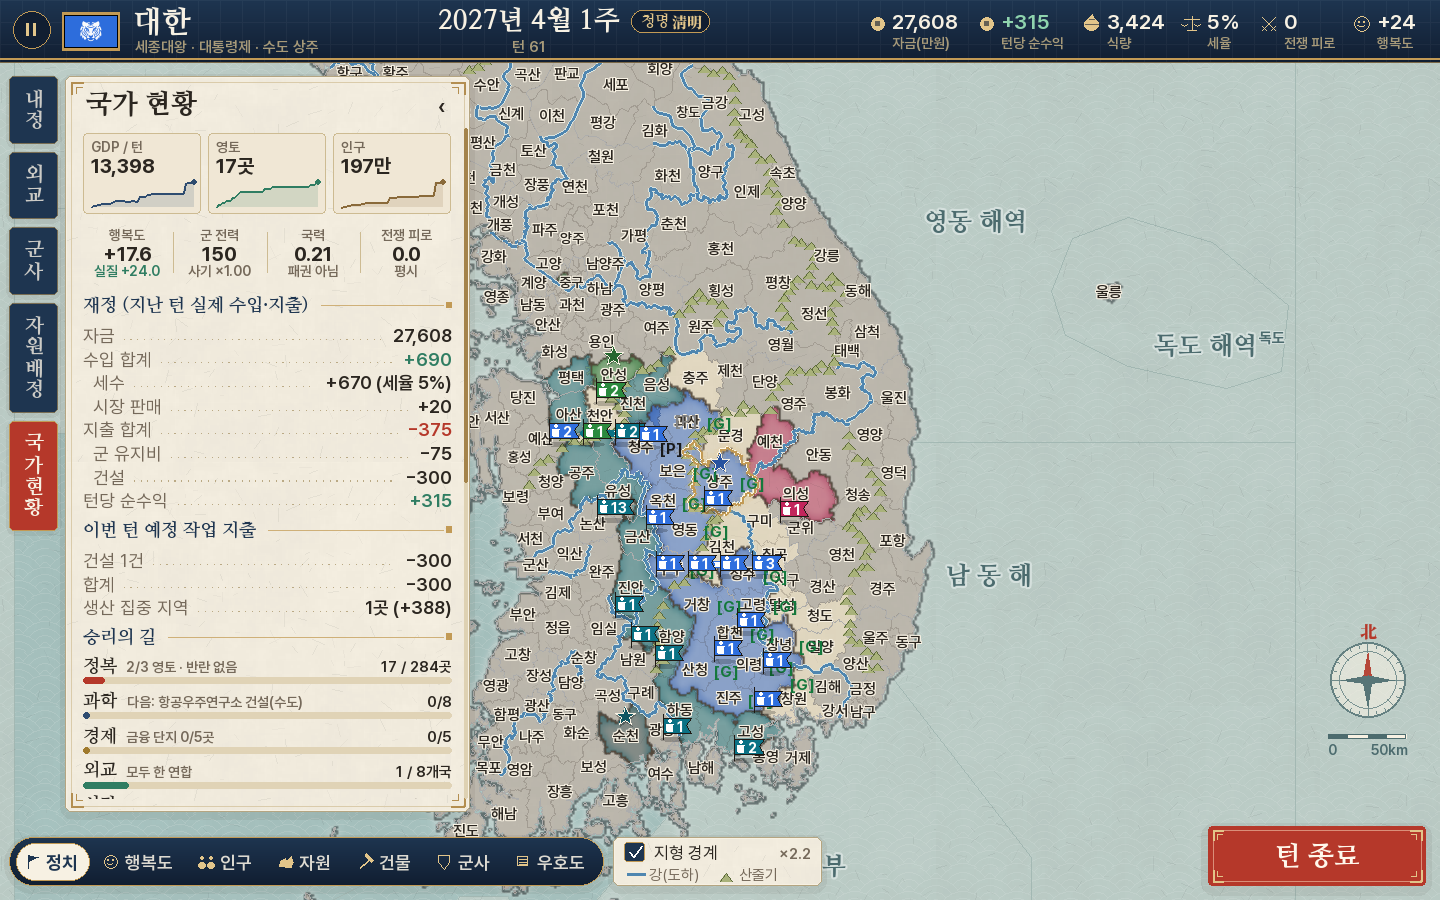
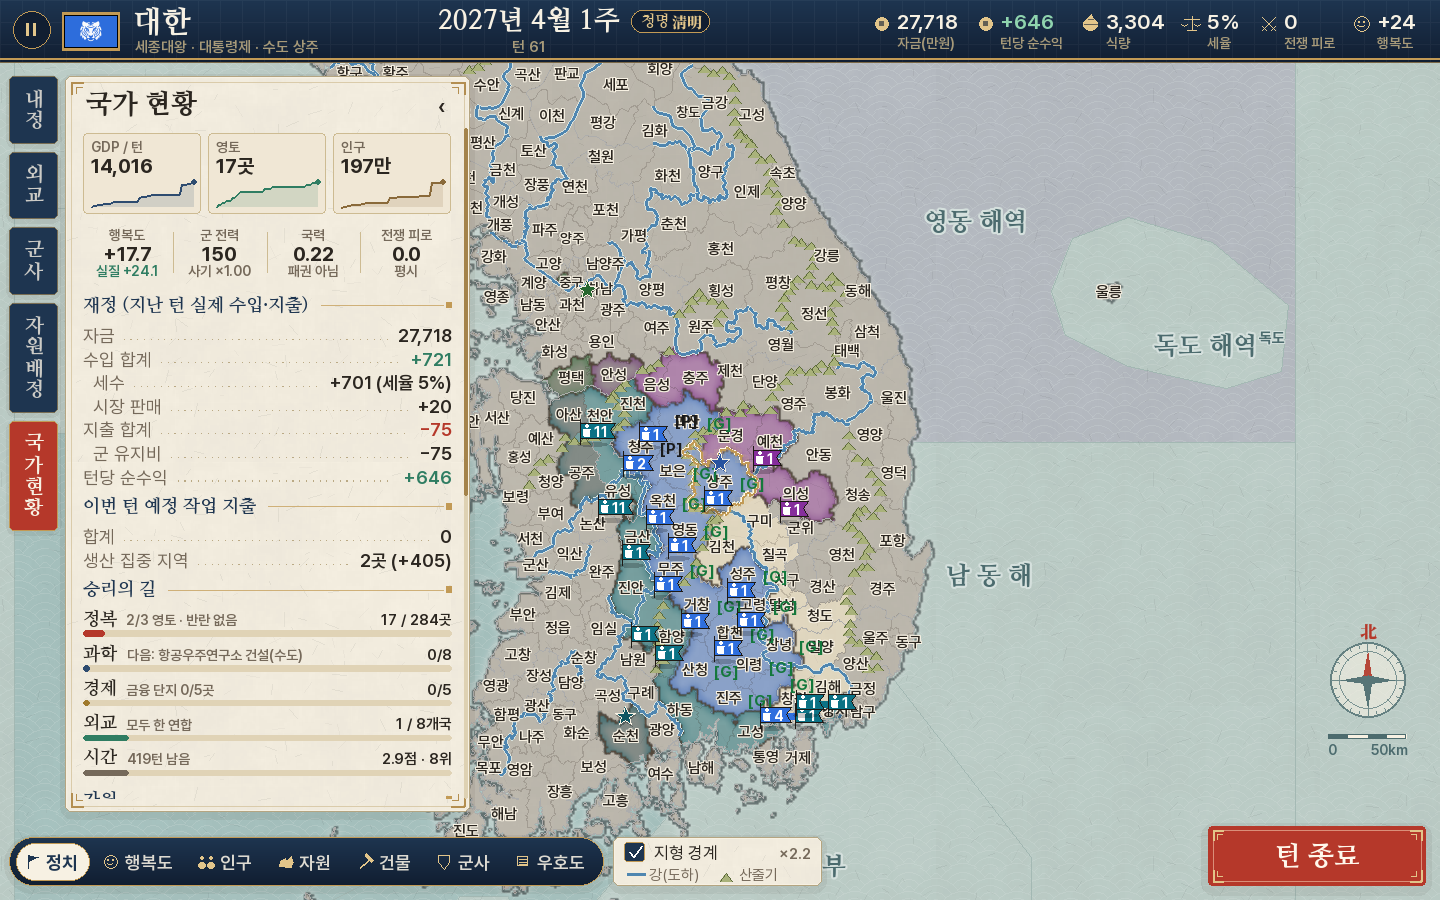
v1.48.2: 주간 조보 삭제, 시작 설정 지도자 초상 칸 3:4
- 인게임 오른쪽 위 주간 조보 카드 삭제
- 시작 설정의 지도자 카드 초상화 칸을 세로 3:4로 늘려 그림이 잘리지 않게 함
  (아래 고른 지도자 족자 초상도 84×112), '직접 입력' 카드는 + 표시만

Claude-Session: https://claude.ai/code/session_015ABDTwjgoEX5AtwCBodvFR

diff --git a/korciv/ui/app.py b/korciv/ui/app.py
@@ -393,7 +393,6 @@ class App:
         self.draw_compass()
         self.draw_mode_chips()
         self.draw_end_turn()
-        self.draw_gazette()
         self.draw_toasts()
         if self.ctx_menu:
             self.draw_ctx_menu()
@@ -1440,69 +1439,6 @@ class App:
             gui.text(c, str(len(queue)), 12, t.indigo_dk, "bold", anchor="center")
         elif gui.button(r, "턴 종료", "seal", size=19, weight="title", enabled=not g.game_over):
             self.end_turn()
-
-    GAZETTE_ICONS = {"battle": "swords", "war": "swords", "bomb": "swords", "captured": "flag", "peace": "scroll",
-                     "diplo": "scroll", "complete": "hammer", "rebel": "face", "famine": "rice", "eliminated": "flag"}
-    GAZETTE_PRIORITY = ("war", "eliminated", "captured", "battle", "rebel", "peace", "famine", "diplo", "bomb")
-
-    def draw_gazette(self):
-        """주간 조보: 지난 턴에 일어난 일을 오른쪽 위 쪽지로(닫으면 다음 턴까지 숨김)."""
-        from .art import ui_icon
-        g = self.game
-        if not g or self.active_modal() or getattr(self, "gazette_closed", None) == g.turn:
-            return
-        pid = g.player_id
-        evs = []
-        for e in getattr(g, "events", []) or []:
-            if not (pid in e["fids"] or e["kind"] in ("war", "peace", "eliminated", "ranking", "victory", "diplo", "alert")):
-                continue
-            txt = g.event_for_player(e)
-            if txt:
-                evs.append((e["kind"], txt))
-        if not evs:
-            return
-        gui = self.gui
-        t = self.theme
-        u = ui_scale()
-        sw, _ = self.lsize()
-        pri = {k: i for i, k in enumerate(self.GAZETTE_PRIORITY)}
-        head = min(range(len(evs)), key=lambda i: (pri.get(evs[i][0], 99), i))
-        rest = [ev for i, ev in enumerate(evs) if i != head]
-        w = 312
-        x = sw - w - 12
-        lines_h = 22 * min(4, len(rest))
-        r = pygame.Rect(x, TOP_H + 10, w, 106 + lines_h + (18 if len(rest) > 4 else 0))
-        gui.panel(r, radius=3)
-        from ..rules import date_of_turn
-        hr = gui.text((r.x + 14, r.y + 8), "朝報", 24, t.text, "title")
-        gui.text((hr.right + 10, r.y + 11), "주간 조보", 14, t.text, "serif")
-        y_, m_, w_ = date_of_turn(max(1, g.turn - 1))
-        gui.text((hr.right + 10, r.y + 29), f"{y_}년 {m_}월 {w_}주 소식", 10, t.muted, "semibold")
-        close = pygame.Rect(r.right - 30, r.y + 8, 22, 22)
-        if gui.button(close, "×", "ghost", size=15):
-            self.gazette_closed = g.turn
-            return
-        gui.line(t.text, (r.x + 12, r.y + 50), (r.right - 12, r.y + 50), 2)
-        gui.line(t.text, (r.x + 12, r.y + 54), (r.right - 12, r.y + 54), 1)
-        kind, txt = evs[head]
-        col = t.vermilion if kind in ("war", "battle", "rebel", "eliminated") else t.text
-        gui.text((r.x + 14, r.y + 62), txt, 14, col, "title", max_w=w - 28)
-        y = r.y + 88
-        gui.line(t.border, (r.x + 12, y - 4), (r.right - 12, y - 4))
-        for kind, txt in rest[:4]:
-            icol = t.vermilion if kind in ("battle", "war", "bomb") else (t.jade if kind in ("captured", "peace") else t.muted)
-            ui_icon(self.screen, self.GAZETTE_ICONS.get(kind, "box"), gui.P(r.x + 22, y + 9), icol, 0.7 * u)
-            gui.text((r.x + 36, y + 1), txt, 12, t.text, max_w=w - 50)
-            y += 22
-        if len(rest) > 4:
-            gui.text((r.x + 36, y), f"외 {len(rest) - 4}건", 11, t.muted, "semibold")
-        link = pygame.Rect(r.right - 150, r.bottom - 22, 140, 18)
-        hov = gui.hover(link)
-        gui.text((link.right, link.centery), "이벤트 로그 전체 보기 ›", 11, t.accent if not hov else t.vermilion, "semibold",
-                 anchor="midright")
-        if hov and gui.clicked:
-            gui.clicked = False
-            self.modal = ("log", None)
 
     def draw_compass(self):
         """지도 오른쪽 아래 나침반(윤도)과 축척."""

diff --git a/korciv/ui/modals.py b/korciv/ui/modals.py
@@ -417,7 +417,9 @@ def draw_setup(app):
     shown = [LEADER_BY_KEY[k] for k in LEADER_CATEGORIES[s.leader_cat][2]] + [LEADER_BY_KEY["cus"]]
     cols, gap = 7, 6
     cw = (w - (cols - 1) * gap) / cols
-    ch = 102
+    pw = int(cw) - 8
+    ph = pw * 4 // 3                          # 초상화 칸은 세로 3:4(그림이 잘리지 않게)
+    ch = ph + 26
     for i, l in enumerate(shown):
         cx = x + (i % cols) * (cw + gap)
         cy = y + (i // cols) * (ch + gap)
@@ -426,7 +428,7 @@ def draw_setup(app):
         hov = gui.hover(cr)
         gui.shadow(cr, 3, 3, 90 if sel else 40)
         gui.rect(t.panel, cr, radius=3)
-        pr_ = pygame.Rect(cr.x + 4, cr.y + 4, cr.w - 8, 70)
+        pr_ = pygame.Rect(cr.x + 4, cr.y + 4, pw, ph)
         if portrait_path(l["key"]) and l["key"] != "cus":
             draw_portrait(gui, pr_, l["key"], t)
             if not sel and not hov:                 # 고르지 않은 카드는 살짝 바랜 느낌
@@ -436,10 +438,11 @@ def draw_setup(app):
         else:
             gui.rect(mix(t.panel_alt, t.indigo, 0.1), pr_)
             col = mix(t.panel_alt, t.indigo, 0.35)
-            gui.circle(col, (pr_.centerx, pr_.y + 25), 12)
-            gui.rect(col, (pr_.centerx - 20, pr_.y + 42, 40, 28), radius=12)
             if l["key"] == "cus":
-                gui.text((pr_.centerx, pr_.centery - 4), "+", 24, (255, 255, 255), "bold", anchor="center")
+                gui.text(pr_.center, "+", 30, col, "bold", anchor="center")
+            else:
+                gui.circle(col, (pr_.centerx, pr_.y + ph * 0.36), pw * 0.17)
+                gui.rect(col, (pr_.centerx - pw * 0.28, pr_.y + ph * 0.58, pw * 0.56, ph * 0.42), radius=12)
         nm = "직접 입력" if l["key"] == "cus" else l["name"]
         gui.text((cr.centerx, cr.bottom - 14), nm, 11 if len(nm) <= 5 else 10, t.text if sel else mix(t.text, t.panel, 0.2),
                  "serif", anchor="center", max_w=cr.w - 4)
@@ -455,7 +458,7 @@ def draw_setup(app):
     y += 2 * (ch + gap) + 6
     # 고른 지도자: 족자 초상 + 이름 + 버프·디버프 패
     lead = LEADER_BY_KEY[s.leader]
-    fr2 = pygame.Rect(x + 8, y + 10, 100, 132)
+    fr2 = pygame.Rect(x + 8, y + 10, 96, 136)    # 안쪽 초상화 84×112(3:4)
     gui.shadow(fr2, 2, 6, 90)
     gui.rect((60, 78, 94), fr2)
     inner = fr2.inflate(-12, -24)

diff --git a/korciv/version.py b/korciv/version.py
@@ -6,7 +6,7 @@
 - 주(첫 번째): 게임을 크게 바꾸는 중대한 업데이트 → 부·수 0으로.
 세이브 파일에는 항상 버전을 적고, 주·부가 같은 세이브만 [이어하기]에 보인다.
 """
-VERSION = "1.48.1"
+VERSION = "1.48.2"
 RELEASE_DATE = "2026-10-10"
 
 

diff --git a/README.md b/README.md
@@ -5,7 +5,7 @@
 
 ![지도](docs/screenshot.png)
 
-**현재 버전: v1.48.1 (2026-10-10)** — 시작 화면 오른쪽 아래에도 표시됩니다.
+**현재 버전: v1.48.2 (2026-10-10)** — 시작 화면 오른쪽 아래에도 표시됩니다.
 
 ## QA 도구
 
@@ -63,7 +63,7 @@ python -m pytest                      # 테스트 (pytest 필요)
 건설·병력 생산을 하지 않는 지역은 행동 탭에서 **생산 집중**을 켜면 인구 산출(30P)이 15% 늘어납니다(언제든 켜고 끔, AI도 사용).
 
 화면 구성: 상단 국가 상태 바(쪽빛 띠, 날짜 옆 24절기, 수치 hover 시 내역), 가운데 지도, 좌측 끝 세로쓰기 책갈피 탭(위에서부터 내정·외교·군사·자원 배정·국가 현황)과
-그 옆 패널(같은 탭을 다시 누르면 접힘, 지역을 누르면 [행동]/[부대]/[지역 정보], 같은 지역을 다시 누르면 닫힘), 좌하단 지도 모드(자원·건물·군사는 누르면 위로 세부 메뉴가 펼쳐져 고른 한 가지만 단계별 색으로 표시: 자원 = 특산물·석탄·석유·자연경관·댐·원전, 건물 = 농장·어장·공장·은행·발전소, 군사 = 방어선·대공포·방공호·사관학교·공항·항구. 전장의 안개로 지금 보이지 않는 지역은 게임 시작 시점 상태로 표시), 우하단 턴 종료 버튼(빈 슬롯이 남았으면 [다음 지역]과 남은 수, 위에 [바로 턴 종료]), 우상단 주간 조보(지난 턴 소식, × 로 닫으면 다음 턴까지 숨김).
+그 옆 패널(같은 탭을 다시 누르면 접힘, 지역을 누르면 [행동]/[부대]/[지역 정보], 같은 지역을 다시 누르면 닫힘), 좌하단 지도 모드(자원·건물·군사는 누르면 위로 세부 메뉴가 펼쳐져 고른 한 가지만 단계별 색으로 표시: 자원 = 특산물·석탄·석유·자연경관·댐·원전, 건물 = 농장·어장·공장·은행·발전소, 군사 = 방어선·대공포·방공호·사관학교·공항·항구. 전장의 안개로 지금 보이지 않는 지역은 게임 시작 시점 상태로 표시), 우하단 턴 종료 버튼(빈 슬롯이 남았으면 [다음 지역]과 남은 수, 위에 [바로 턴 종료]).
 
 **화면 디자인(v1.48.1)**: 고지도 + 단청 색(한지 패널·쪽빛·주홍·금)과 명조 글꼴(나눔명조, 장식 한자는 Noto Serif KR 부분집합 — `tools/build_serif_font.py`)을 씁니다.
 지도는 한지에 번진 수채화처럼 칠하고(정치 지도에서는 국경 안쪽이 세력 색으로 짙어짐), 국경은 먹선, 전쟁 중인 두 나라의 국경에는 옅은 붉은 그림자, 바다에는 청해파 무늬를 깝니다.
@@ -269,10 +269,11 @@ python -m pytest                      # 테스트 (pytest 필요)
   - *우방*: 국경을 맞댄 나라가 2곳 이상이면(v1.22.2부터 약소국이 아니어도) 한 나라를 골라 우호 선언 → 선물로 불가침 문턱까지 끌어올립니다(포위·전선 이중화 방지). 우방은 비난·공격하지 않습니다. 모든 AI는 이웃이 많을수록 이웃과의 우호 선언을 더 자주, 더 먼저 고릅니다.
   - *어느 쪽도 유리하지 않으면(v1.22.1)*: 외교를 뺀 세 방향 최고점이 0.18 미만(v1.23.0부터, 판단의 하위 약 10%, 주로 약소국)이면 자포자기하지 않고 외교승리를 노립니다. 만나 본 나라 중 전쟁 중이 아니고 동맹이 가능한 가장 강한 나라를 '의지할 강국'으로 정해 우호 선언 → 조약 → 동맹 → 연합까지 우호도를 끌어올립니다(내 우호도 +0.8/턴, 선물: 비상금 위 자금 50%·순수입 8턴분까지, 위기·군사력 부족 시 중단, 강국의 적과는 우호 선언 안 함). 최소 48턴 전념한 뒤 최고점이 0.225를 넘으면 다시 방향을 고릅니다. 장보고(동맹 불가)는 제외.
   - 200턴 100판(1페이즈만 → 2페이즈): 멸망 23% → 14%, 최대 세력 172 → 136곳, 198턴 전쟁 중 47% → 32%, GDP +12%(`docs/분석_AI_1·2페이즈_200턴.md`).
+- **v1.48.2**: 주간 조보 삭제, 시작 설정의 지도자 초상 칸을 세로 3:4로 늘려 그림이 잘리지 않게 함 (세이브 그대로 이어하기 가능).
 - **v1.48.1 화면 디자인 개편** (세이브 그대로 이어하기 가능)
   - 고지도 + 단청 색(한지 패널·쪽빛 상단 바·주홍 버튼·금빛 테두리)과 명조 글꼴로 화면 전체를 바꿨습니다. 시작 화면은 수묵 산수 배경(달·해·구름·금색 한반도), 시작 설정은 두루마리 모양에 지도자 초상 카드·승리 조건 토글·내 시작 지역 줄·미니맵, 시작 버튼은 [건국하기]입니다.
   - 지도: 수채화 영토와 국경 안쪽 번짐, 먹빛 국경·해안선, 전쟁 국경의 붉은 그림자, 청해파 바다, 강·산줄기, 군기 모양 부대 표시(대표 병종 아이콘), 수도 별, 전투 지역 칼 표시, 선택 지역 금빛 윤곽, 나침반·축척. 조선 8도 지도 모드는 뺐습니다(단축키 1~7).
-  - 국가 현황 탭: GDP·영토·인구 추이 그래프, 행복도(명목·실질)·군 전력(사기)·국력·전쟁 피로 요약, 장부식 재정, 승리 조건 진행 막대. 우상단에 지난 턴 소식을 모은 주간 조보가 뜹니다.
+  - 국가 현황 탭: GDP·영토·인구 추이 그래프, 행복도(명목·실질)·군 전력(사기)·국력·전쟁 피로 요약, 장부식 재정, 승리 조건 진행 막대.
 - **v1.48.0**: 평북 운산에 특산물 '금' 추가 (세이브 호환 안 됨).
 - **v1.47.0 특산물 9종 추가** (세이브 호환 안 됨): 서울 중구 신당동 떡볶이, 서울 성동 마장동 한우, 서울 동작 노량진 회, 강원 춘천 닭갈비, 강원 원산 명태, 강원 통천 문어, 강원 회양 송이, 황북 곡산 꿀, 황북 수안 금.
 - **v1.46.0 잉여 식량·화면 정리** (세이브 호환 안 됨)
